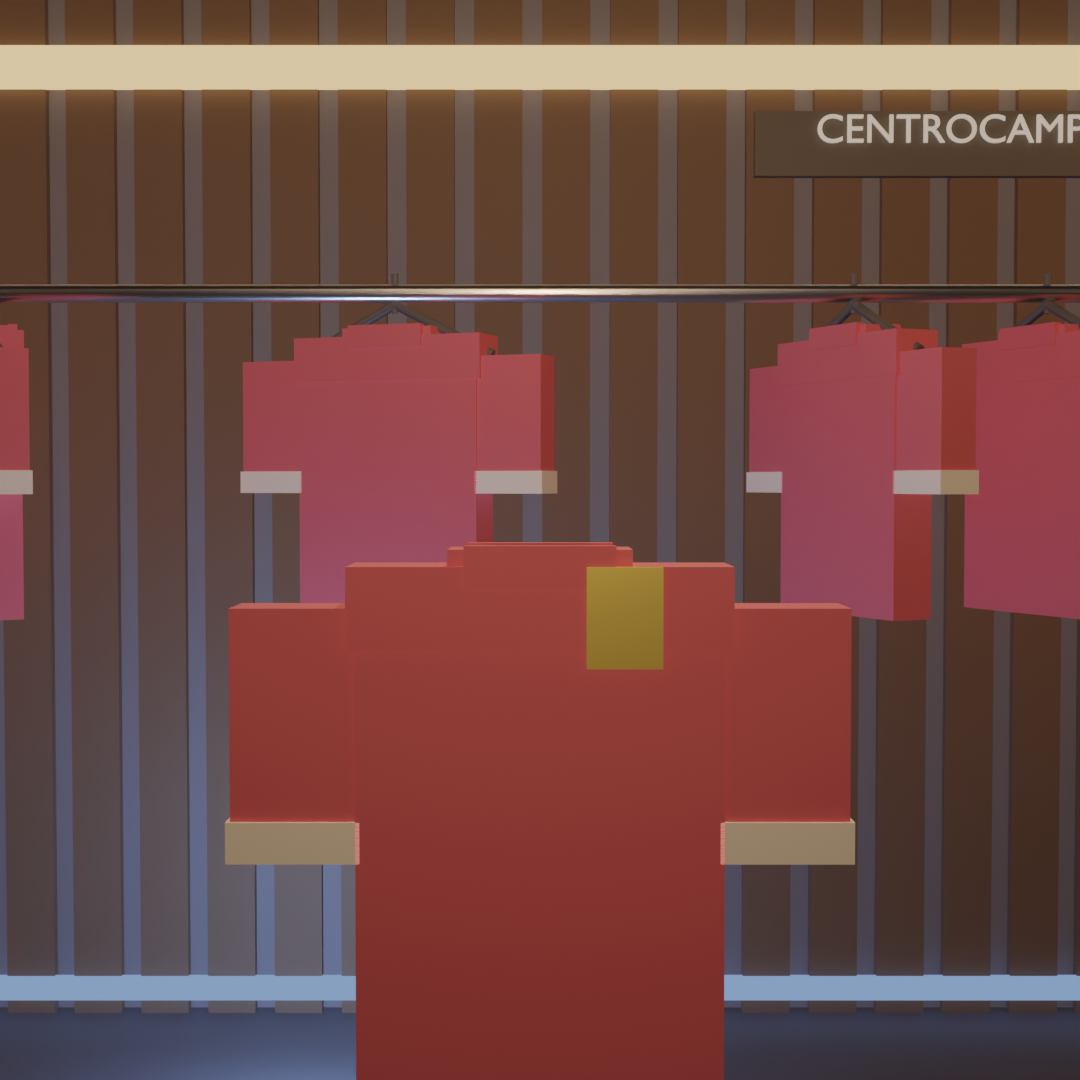
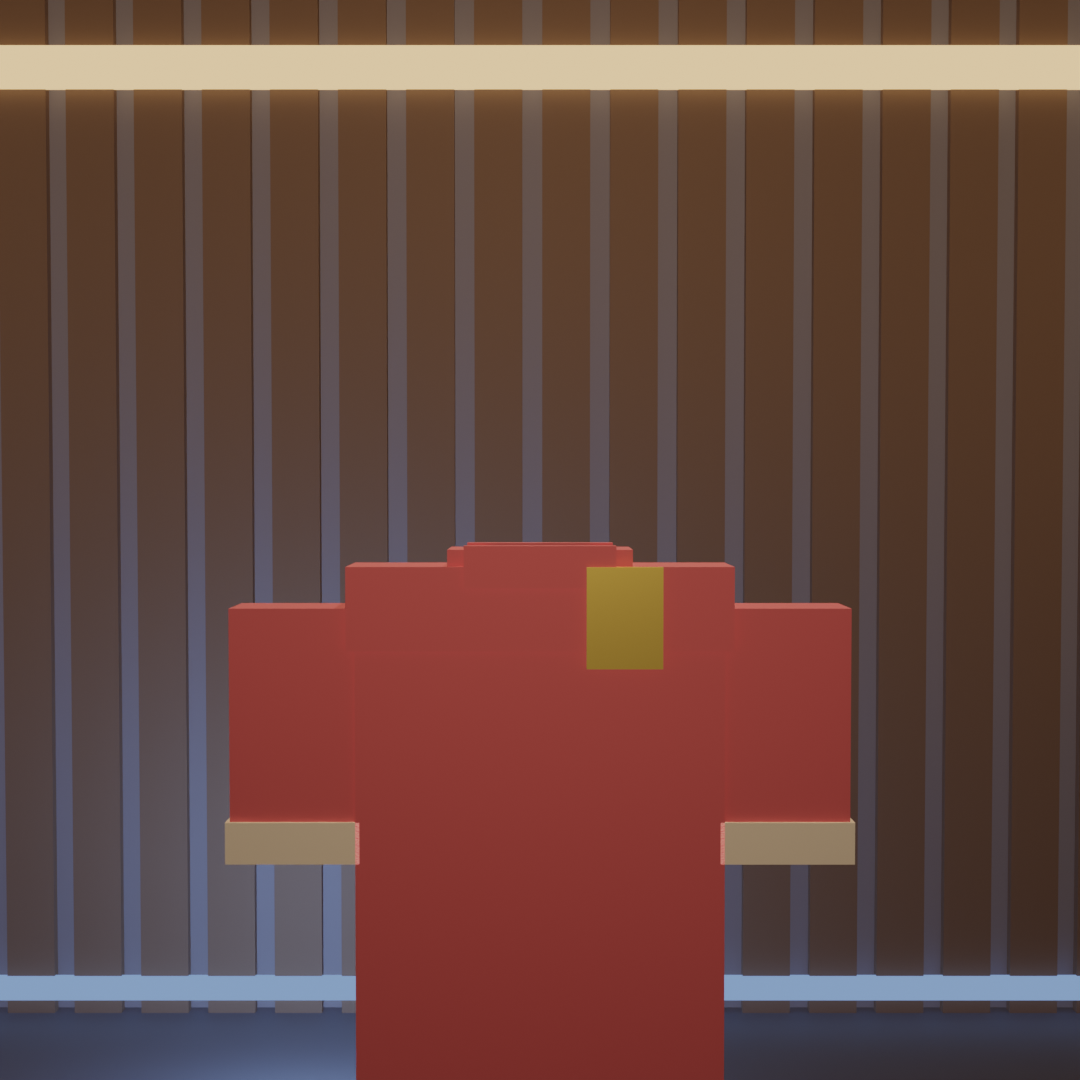
Ciclo v01

Changed region(s): [[0.0, 0.2444, 1.0, 0.5806], [0.7333, 0.0917, 1.0, 0.1528]]

diff --git a/scripts/render_vista.py b/scripts/render_vista.py
@@ -68,15 +68,25 @@ if VISTA == "fronte":
         lf.data.use_shadow = False
     except Exception:
         pass
-    # maglia 10: sola, di PETTO (rot Z = 0 = petto +Y verso camera),
-    # gruccia nascosta (hide_render), non davanti al petto
+    # maglia 10: sola, di PETTO (rot Z = 0 = petto +Y verso camera), STACCATA:
+    # si nasconde SOLO il resto dell'attrezzatura (barra, altre maglie/grucce,
+    # staffe, targhe e testi); muro, doghe, pavimento e luci restano accesi
     m10 = bpy.data.objects["Maglia_10"]
-    g10 = bpy.data.objects["Gruccia_10"]
     m10.location = (0, 2.2, 1.35)
     m10.rotation_euler = (0, 0, 0)
-    g10.location = (0, 2.2, 1.35)
-    g10.rotation_euler = (0, 0, 0)
-    g10.hide_render = True
+    nascosti = []
+    for o in bpy.data.objects:
+        if o is m10 or o is cam or o is tgt or o is lf:
+            continue
+        nm = o.name
+        if nm.startswith("Maglia_") or nm.startswith("Gruccia_") or \
+                nm in ("Barra", "Staffa", "Staffa.001") or \
+                nm.startswith("Targa_"):
+            try:
+                o.hide_render = True
+                nascosti.append(o)
+            except Exception:
+                pass
     SC.camera = bpy.data.objects[CAM]
     SC.render.resolution_x, SC.render.resolution_y = RX, RY
     SC.render.resolution_percentage = 100
@@ -84,7 +94,11 @@ if VISTA == "fronte":
     SC.render.filepath = out
     bpy.ops.render.render(write_still=True)
     print("RENDER:", out)
-    g10.hide_render = False
+    for o in nascosti:
+        try:
+            o.hide_render = False
+        except Exception:
+            pass
 elif VISTA == "girata":
     # hover: petto PIENO frontale (rot 0) + 25 cm avanti + luce dedicata
     shot(["Maglia_10", "Gruccia_10"],
@@ -124,5 +138,3 @@ else:
         SC.render.filepath = out
         bpy.ops.render.render(write_still=True)
         print("RENDER:", out)
-    bpy.ops.render.render(write_still=True)
-    print("RENDER:", out)

diff --git a/scripts/spogliatoio_v01.py b/scripts/spogliatoio_v01.py
@@ -5,7 +5,8 @@ luce sera, 4 render. Esegui da C:\\Progetti\\stanza-3d:
 Geometria maglia (locale): petto = +Y (scudo, interno colletto davanti),
 schiena = -Y, maniche lungo X. Rotazione Z delle maglie: 0 = petto alla
 camera, 115 = tre quarti di schiena (65 dalla schiena), 160 = quasi di
-schiena (20 dalla schiena, prima di ogni reparto), hover ~ -8 petto avanti.
+schiena (20 dalla schiena, prima di ogni reparto), hover 0 = petto pieno
+frontale + 25 cm avanti.
 """
 import bpy, bmesh, json, math, os
 from math import radians, cos, sin, pi
